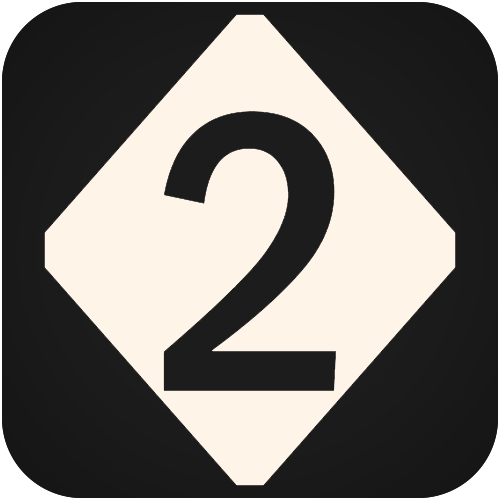
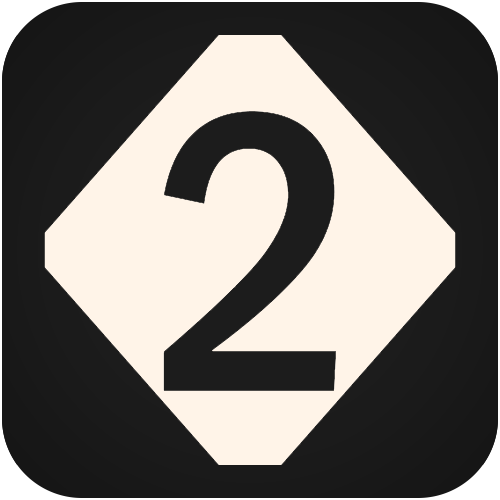
Fix number positioning on green and tweaked diamond shape numbers
Fix number positioning on green to be accurate to real life and tweaked diamond shape numbers to have a more accurately shaped diamond

diff --git a/trains-js/TGV Classique.js b/trains-js/TGV Classique.js
@@ -53,12 +53,12 @@ function change300G() {
 }
 
 function change270G() {
-    document.getElementById("square1").src = "/./img/numbers/empty.png";
-    document.getElementById("square2").src = "/./img/numbers/empty.png";
-    document.getElementById("square3").src = "/./img/numbers/empty.png";
-    document.getElementById("square4").src = "/./img/numbers/green2.png";
-    document.getElementById("square5").src = "/./img/numbers/green7.png";
-    document.getElementById("square6").src = "/./img/numbers/green0.png";
+    document.getElementById("square1").src = "/./img/numbers/green2.png";
+    document.getElementById("square2").src = "/./img/numbers/green7.png";
+    document.getElementById("square3").src = "/./img/numbers/green0.png";
+    document.getElementById("square4").src = "/./img/numbers/empty.png";
+    document.getElementById("square5").src = "/./img/numbers/empty.png";
+    document.getElementById("square6").src = "/./img/numbers/empty.png";
     document.getElementById("square7").src = "/./img/numbers/empty.png";
     document.getElementById("square8").src = "/./img/numbers/empty.png";
     document.getElementById("square9").src = "/./img/numbers/empty.png";
@@ -80,12 +80,12 @@ function change270G() {
 }
 
 function change230G() {
-    document.getElementById("square1").src = "/./img/numbers/empty.png";
-    document.getElementById("square2").src = "/./img/numbers/empty.png";
-    document.getElementById("square3").src = "/./img/numbers/empty.png";
-    document.getElementById("square4").src = "/./img/numbers/green2.png";
-    document.getElementById("square5").src = "/./img/numbers/green3.png";
-    document.getElementById("square6").src = "/./img/numbers/green0.png";
+    document.getElementById("square1").src = "/./img/numbers/green2.png";
+    document.getElementById("square2").src = "/./img/numbers/green3.png";
+    document.getElementById("square3").src = "/./img/numbers/green0.png";
+    document.getElementById("square4").src = "/./img/numbers/empty.png";
+    document.getElementById("square5").src = "/./img/numbers/empty.png";
+    document.getElementById("square6").src = "/./img/numbers/empty.png";
     document.getElementById("square7").src = "/./img/numbers/empty.png";
     document.getElementById("square8").src = "/./img/numbers/empty.png";
     document.getElementById("square9").src = "/./img/numbers/empty.png";
@@ -107,12 +107,12 @@ function change230G() {
 }
 
 function change200G() {
-    document.getElementById("square1").src = "/./img/numbers/empty.png";
-    document.getElementById("square2").src = "/./img/numbers/empty.png";
-    document.getElementById("square3").src = "/./img/numbers/empty.png";
-    document.getElementById("square4").src = "/./img/numbers/green2.png";
-    document.getElementById("square5").src = "/./img/numbers/green0.png";
-    document.getElementById("square6").src = "/./img/numbers/green0.png";
+    document.getElementById("square1").src = "/./img/numbers/green2.png";
+    document.getElementById("square2").src = "/./img/numbers/green0.png";
+    document.getElementById("square3").src = "/./img/numbers/green0.png";
+    document.getElementById("square4").src = "/./img/numbers/empty.png";
+    document.getElementById("square5").src = "/./img/numbers/empty.png";
+    document.getElementById("square6").src = "/./img/numbers/empty.png";
     document.getElementById("square7").src = "/./img/numbers/empty.png";
     document.getElementById("square8").src = "/./img/numbers/empty.png";
     document.getElementById("square9").src = "/./img/numbers/empty.png";
@@ -134,12 +134,12 @@ function change200G() {
 }
 
 function change170G() {
-    document.getElementById("square1").src = "/./img/numbers/empty.png";
-    document.getElementById("square2").src = "/./img/numbers/empty.png";
-    document.getElementById("square3").src = "/./img/numbers/empty.png";
-    document.getElementById("square4").src = "/./img/numbers/green1.png";
-    document.getElementById("square5").src = "/./img/numbers/green7.png";
-    document.getElementById("square6").src = "/./img/numbers/green0.png";
+    document.getElementById("square1").src = "/./img/numbers/green1.png";
+    document.getElementById("square2").src = "/./img/numbers/green7.png";
+    document.getElementById("square3").src = "/./img/numbers/green0.png";
+    document.getElementById("square4").src = "/./img/numbers/empty.png";
+    document.getElementById("square5").src = "/./img/numbers/empty.png";
+    document.getElementById("square6").src = "/./img/numbers/empty.png";
     document.getElementById("square7").src = "/./img/numbers/empty.png";
     document.getElementById("square8").src = "/./img/numbers/empty.png";
     document.getElementById("square9").src = "/./img/numbers/empty.png";
@@ -161,12 +161,12 @@ function change170G() {
 }
 
 function change160G() {
-    document.getElementById("square1").src = "/./img/numbers/empty.png";
-    document.getElementById("square2").src = "/./img/numbers/empty.png";
-    document.getElementById("square3").src = "/./img/numbers/empty.png";
-    document.getElementById("square4").src = "/./img/numbers/green1.png";
-    document.getElementById("square5").src = "/./img/numbers/green6.png";
-    document.getElementById("square6").src = "/./img/numbers/green0.png";
+    document.getElementById("square1").src = "/./img/numbers/green1.png";
+    document.getElementById("square2").src = "/./img/numbers/green6.png";
+    document.getElementById("square3").src = "/./img/numbers/green0.png";
+    document.getElementById("square4").src = "/./img/numbers/empty.png";
+    document.getElementById("square5").src = "/./img/numbers/empty.png";
+    document.getElementById("square6").src = "/./img/numbers/empty.png";
     document.getElementById("square7").src = "/./img/numbers/empty.png";
     document.getElementById("square8").src = "/./img/numbers/empty.png";
     document.getElementById("square9").src = "/./img/numbers/empty.png";
@@ -188,12 +188,12 @@ function change160G() {
 }
 
 function change130G() {
-    document.getElementById("square1").src = "/./img/numbers/empty.png";
-    document.getElementById("square2").src = "/./img/numbers/empty.png";
-    document.getElementById("square3").src = "/./img/numbers/empty.png";
-    document.getElementById("square4").src = "/./img/numbers/green1.png";
-    document.getElementById("square5").src = "/./img/numbers/green3.png";
-    document.getElementById("square6").src = "/./img/numbers/green0.png";
+    document.getElementById("square1").src = "/./img/numbers/green1.png";
+    document.getElementById("square2").src = "/./img/numbers/green3.png";
+    document.getElementById("square3").src = "/./img/numbers/green0.png";
+    document.getElementById("square4").src = "/./img/numbers/empty.png";
+    document.getElementById("square5").src = "/./img/numbers/empty.png";
+    document.getElementById("square6").src = "/./img/numbers/empty.png";
     document.getElementById("square7").src = "/./img/numbers/empty.png";
     document.getElementById("square8").src = "/./img/numbers/empty.png";
     document.getElementById("square9").src = "/./img/numbers/empty.png";
@@ -215,12 +215,12 @@ function change130G() {
 }
 
 function change100G() {
-    document.getElementById("square1").src = "/./img/numbers/empty.png";
-    document.getElementById("square2").src = "/./img/numbers/empty.png";
-    document.getElementById("square3").src = "/./img/numbers/empty.png";
-    document.getElementById("square4").src = "/./img/numbers/green1.png";
-    document.getElementById("square5").src = "/./img/numbers/green0.png";
-    document.getElementById("square6").src = "/./img/numbers/green0.png";
+    document.getElementById("square1").src = "/./img/numbers/green1.png";
+    document.getElementById("square2").src = "/./img/numbers/green0.png";
+    document.getElementById("square3").src = "/./img/numbers/green0.png";
+    document.getElementById("square4").src = "/./img/numbers/empty.png";
+    document.getElementById("square5").src = "/./img/numbers/empty.png";
+    document.getElementById("square6").src = "/./img/numbers/empty.png";
     document.getElementById("square7").src = "/./img/numbers/empty.png";
     document.getElementById("square8").src = "/./img/numbers/empty.png";
     document.getElementById("square9").src = "/./img/numbers/empty.png";
@@ -242,12 +242,12 @@ function change100G() {
 }
 
 function change080G() {
-    document.getElementById("square1").src = "/./img/numbers/empty.png";
-    document.getElementById("square2").src = "/./img/numbers/empty.png";
-    document.getElementById("square3").src = "/./img/numbers/empty.png";
-    document.getElementById("square4").src = "/./img/numbers/green0.png";
-    document.getElementById("square5").src = "/./img/numbers/green8.png";
-    document.getElementById("square6").src = "/./img/numbers/green0.png";
+    document.getElementById("square1").src = "/./img/numbers/green0.png";
+    document.getElementById("square2").src = "/./img/numbers/green8.png";
+    document.getElementById("square3").src = "/./img/numbers/green0.png";
+    document.getElementById("square4").src = "/./img/numbers/empty.png";
+    document.getElementById("square5").src = "/./img/numbers/empty.png";
+    document.getElementById("square6").src = "/./img/numbers/empty.png";
     document.getElementById("square7").src = "/./img/numbers/empty.png";
     document.getElementById("square8").src = "/./img/numbers/empty.png";
     document.getElementById("square9").src = "/./img/numbers/empty.png";
